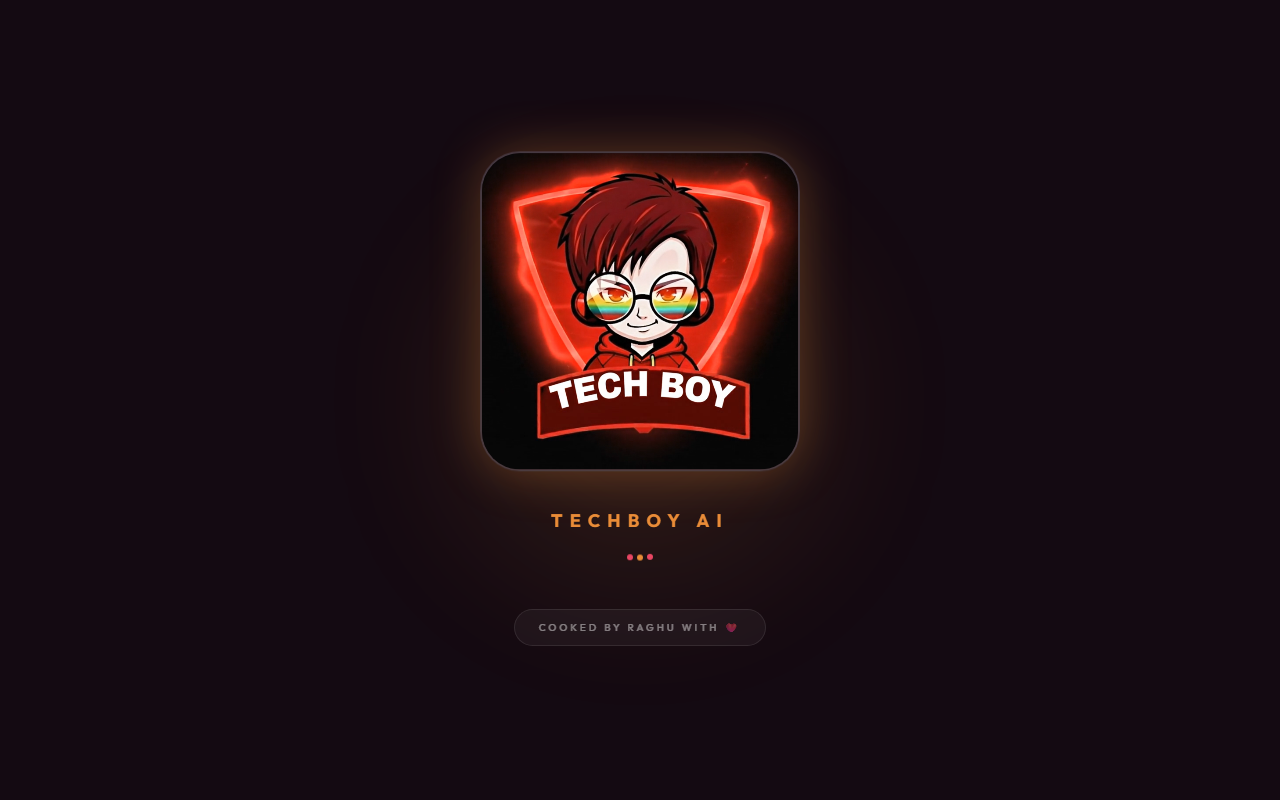
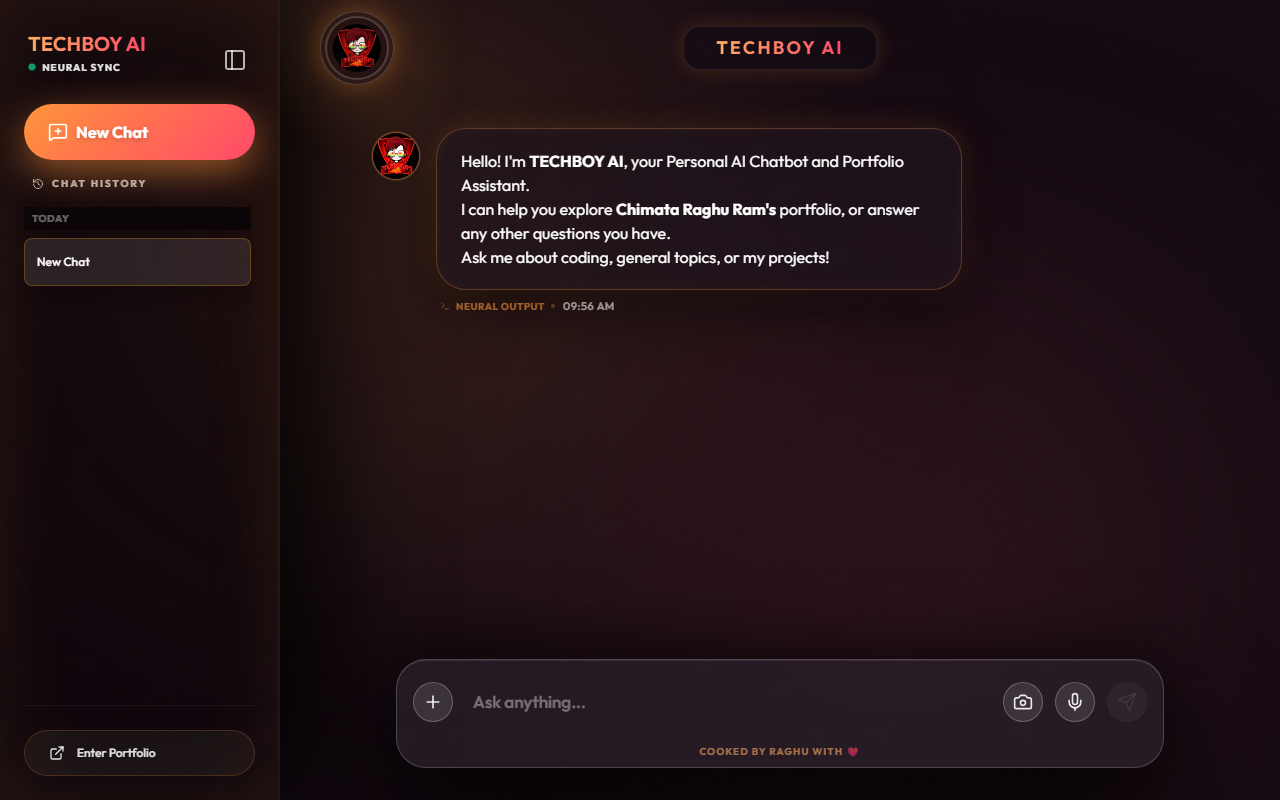
docs: improve screenshots to show full initialized AI chatbot UI

diff --git a/capture.js b/capture.js
@@ -1,6 +1,6 @@
 import puppeteer from 'puppeteer';
 import { fileURLToPath } from 'url';
-// Use explicit delays
+
 const delay = ms => new Promise(res => setTimeout(res, ms));
 
 (async () => {
@@ -9,41 +9,25 @@ const delay = ms => new Promise(res => setTimeout(res, ms));
 
     // Screenshot 1: Desktop View - Splash Screen
     await page.setViewport({ width: 1280, height: 800 });
-    // Navigate to the app
-    await page.goto('http://localhost:3000/TECHBOY-AI/', { waitUntil: 'networkidle0' });
+    await page.goto('http://localhost:3001/TECHBOY-AI/', { waitUntil: 'networkidle0' });
 
-    // As soon as it loads, the splash screen should be visible
-    await page.waitForSelector('video', { timeout: 10000 }).catch(() => { });
-    await delay(1000); // Wait for animations to smooth out
+    await delay(1000);
     await page.screenshot({ path: 'public/screenshot_1.png' });
 
-    // Wait for splash screen to disappear. The splash screen button often says "Enter Experience"
-    try {
-        await page.waitForSelector('button', { timeout: 15000 });
-        const buttons = await page.$$('button');
-        for (const btn of buttons) {
-            const text = await page.evaluate(el => el.textContent, btn);
-            if (text && text.includes('ENTER EXPERIENCE')) {
-                await btn.click();
-                break;
-            }
-        }
-    } catch (e) { }
-
-    await delay(4000); // Wait for chat UI to load
+    // Wait for splash screen to disappear naturally (10-12 seconds)
+    console.log("Waiting for splash screen to disappear...");
+    await delay(11000);
 
     // Screenshot 2: Chat UI Display
     await page.screenshot({ path: 'public/screenshot_2.png' });
+    console.log("Captured screenshot 2");
 
     // Screenshot 3: Mobile Dashboard View
-    // Change viewport to mobile
     await page.setViewport({ width: 375, height: 812, isMobile: true, hasTouch: true });
     await delay(1000);
-    // Click sidebar toggle if closed
+    // Open sidebar on mobile
     try {
         const caps = await page.$$('button');
-        // The first button in the header is usually the sidebar toggle. Let's just click the top-left one.
-        // It has PanelLeft icon
         for (let i = 0; i < 3; i++) {
             let class_attr = await page.evaluate(el => el.className, caps[i]);
             if (class_attr && class_attr.includes('hover:scale-110')) {
@@ -54,21 +38,24 @@ const delay = ms => new Promise(res => setTimeout(res, ms));
     } catch (e) { }
     await delay(1500);
     await page.screenshot({ path: 'public/screenshot_3.png' });
+    console.log("Captured screenshot 3");
 
-    // Switch back to desktop for Interactive Jelly UI
+    // Switch back to desktop for Interactive UI
     await page.setViewport({ width: 1280, height: 800 });
     await delay(1000);
     // Click body to close sidebar
     await page.mouse.click(1000, 400);
     await delay(1000);
 
-    // Focus input
+    // Focus input and add some text to show interaction
     try {
-        await page.type('textarea, input[type="text"]', 'Hello, tell me about your projects!');
+        await page.type('textarea, input[type="text"]', 'Tell me about Chimata Raghu Ram\'s skills.');
+        await delay(500);
     } catch (e) { }
-    await delay(500);
-    // Screenshot 4: Interactive Jelly UI / Input element focused
+
+    // Screenshot 4: Interactive UI / Input element focused
     await page.screenshot({ path: 'public/screenshot_4.png' });
+    console.log("Captured screenshot 4");
 
     await browser.close();
 })();
